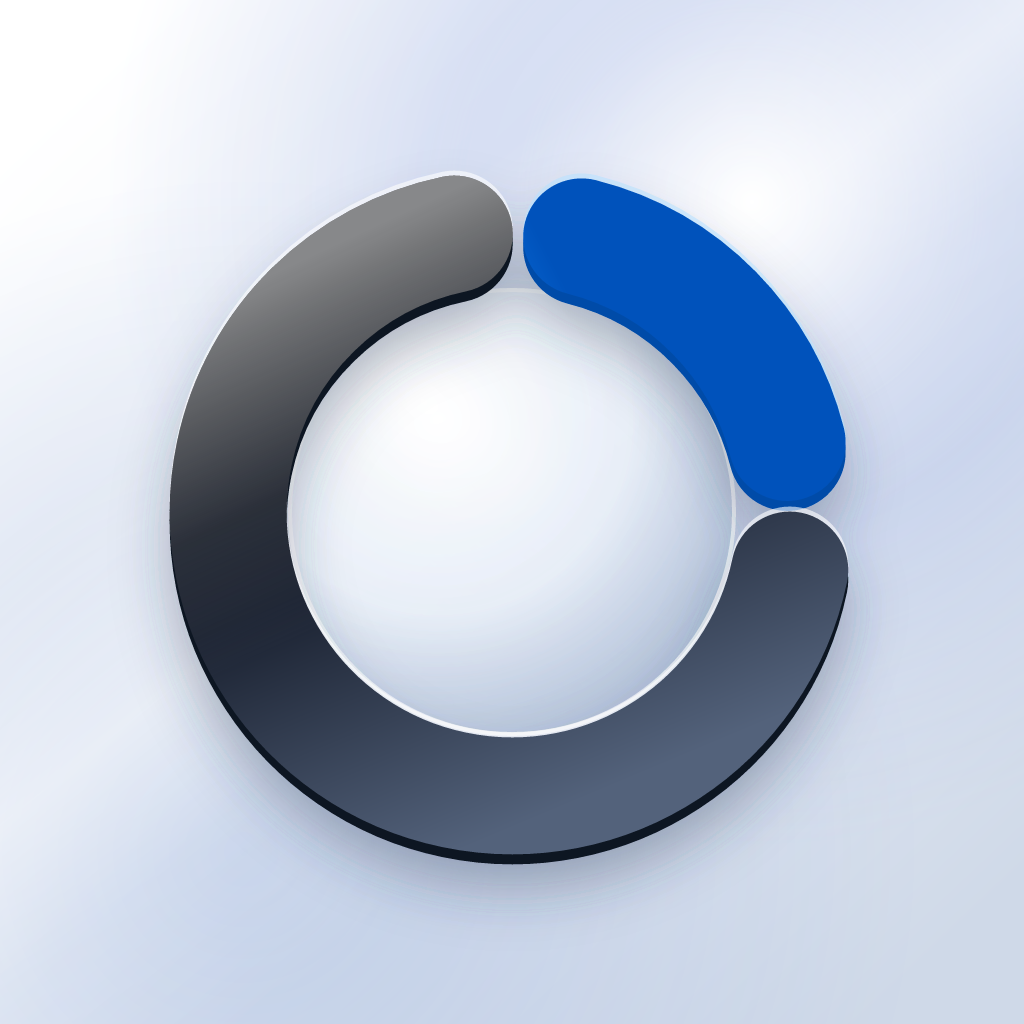
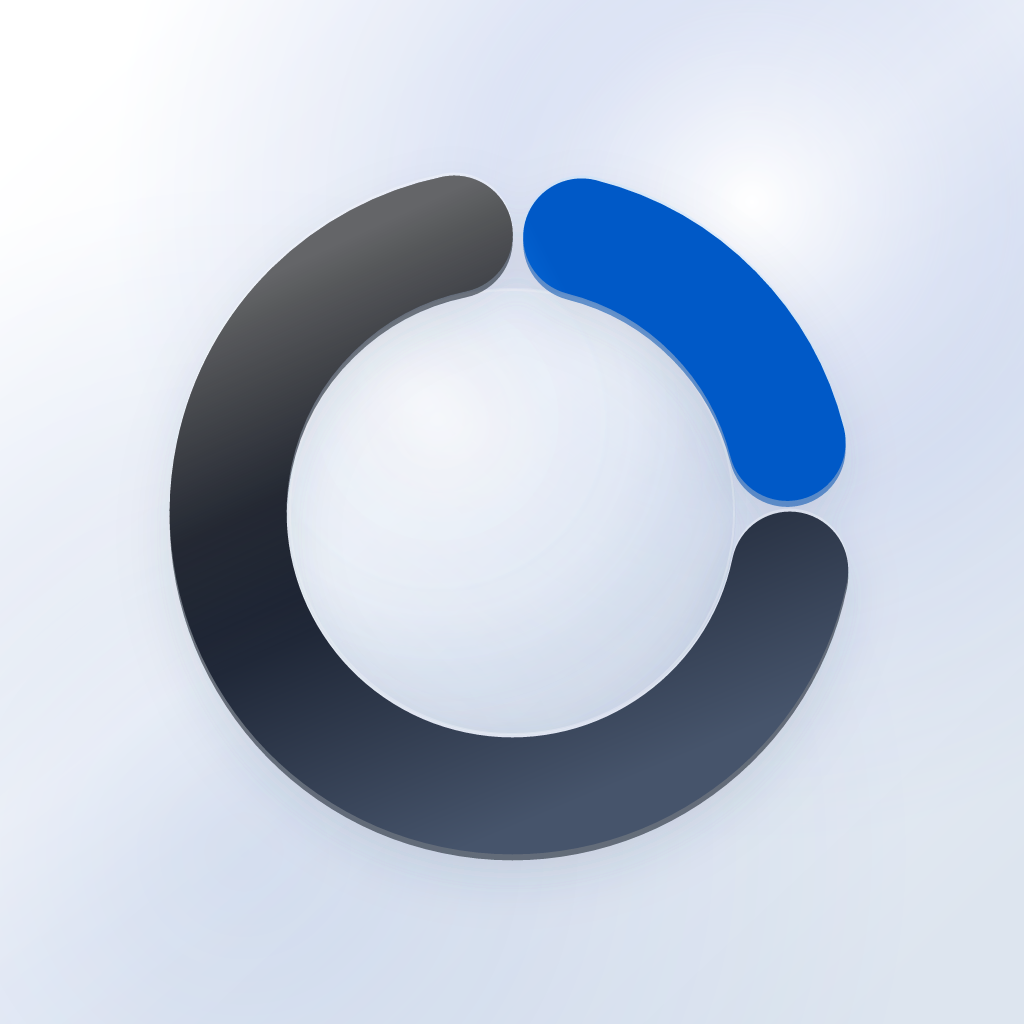
feat: enhance chat live activity with narration and update brand assets

Changed region(s): [[0.1875, 0.1562, 0.8438, 0.7188], [0.1875, 0.5625, 0.8438, 0.9062], [0.1562, 0.5312, 0.1875, 0.625]]

diff --git a/apps/mobile-harmony/tests/chatLiveActivity.test.ts b/apps/mobile-harmony/tests/chatLiveActivity.test.ts
@@ -1,6 +1,6 @@
 import { describe, expect, it } from 'vitest';
 import { reduceChatStream } from '../entry/src/main/ets/common/chatStream.ets';
-import { chatLiveCompletedCount, chatLiveElapsedSeconds, reduceChatSnapshotActivity } from '../entry/src/main/ets/common/chatLiveActivity.ets';
+import { chatLiveCompletedCount, chatLiveElapsedSeconds, chatLiveNarration, reduceChatSnapshotActivity } from '../entry/src/main/ets/common/chatLiveActivity.ets';
 
 describe('live chat activity', () => {
   it('tracks real tool stages without retaining private arguments or thinking', () => {
@@ -39,5 +39,30 @@ describe('live chat activity', () => {
     expect(row.activity).toBe('responding');
     expect(row.text).toBe('');
     expect(JSON.stringify(row)).not.toContain('private');
+  });
+
+  it('surfaces completed public narration without leaking pending answer text', () => {
+    let row = reduceChatStream(undefined, 'assistant_delta', {
+      messageId: 'narration', delta: 'Checking the project structure', offset: 0,
+    }, 'run');
+    expect(chatLiveNarration(row)).toBe('');
+    row = reduceChatStream(row, 'assistant_message_end', {
+      messageId: 'narration', presentation: 'narration',
+    }, 'run');
+    expect(chatLiveNarration(row)).toBe('Checking the project structure');
+    row = reduceChatStream(row, 'assistant_delta', {
+      messageId: 'answer', delta: 'Here is the result', offset: 0,
+    }, 'run');
+    expect(chatLiveNarration(row)).toBe('');
+  });
+
+  it('does not replace an active tool status with assistant text', () => {
+    let row = reduceChatStream(undefined, 'tool_start', {
+      toolCallId: 'read-1', toolName: 'read_file',
+    }, 'run');
+    row = reduceChatStream(row, 'assistant_delta', {
+      messageId: 'narration', delta: 'Reading the relevant files', offset: 0,
+    }, 'run');
+    expect(row.activity).toBe('read');
   });
 });

diff --git a/apps/mobile-harmony/tests/brand-assets.test.ts b/apps/mobile-harmony/tests/brand-assets.test.ts
@@ -40,7 +40,7 @@ describe('Harmony mobile brand assets', () => {
       .toBe(false);
   });
 
-  it('keeps the glass depth visible at launcher scale', async () => {
+  it('keeps the restrained glass depth visible at launcher scale', async () => {
     const { data, info } = await sharp(read('../AppScope/resources/base/media/app_icon.png'))
       .resize(96, 96)
       .removeAlpha()
@@ -56,8 +56,8 @@ describe('Harmony mobile brand assets', () => {
       0,
     );
 
-    expect(brightness(sample(40, 39)) - brightness(sample(48, 60))).toBeGreaterThan(24);
-    expect(colourDistance(sample(6, 6), sample(90, 90))).toBeGreaterThan(80);
+    expect(brightness(sample(40, 39)) - brightness(sample(48, 60))).toBeGreaterThan(14);
+    expect(colourDistance(sample(6, 6), sample(90, 90))).toBeGreaterThan(60);
   });
 
   it.each([['light', 'base'], ['dark', 'dark']])('keeps the %s mark identical to the approved concept', (appearance, qualifier) => {
